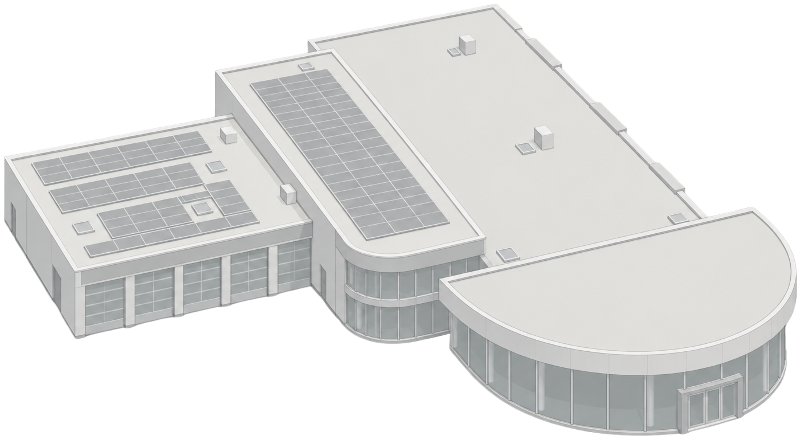
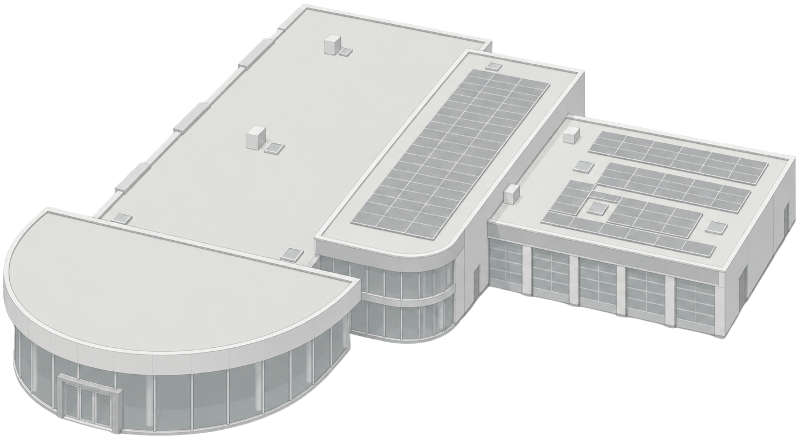
Pandtekening recht op de plattegrond (gespiegeld + 90 graden gedraaid), overlay-rotatie in MapView

diff --git a/src/components/MapView.tsx b/src/components/MapView.tsx
@@ -50,6 +50,8 @@ export interface MapImageOverlay {
   anchor: LatLng;
   /** Breedte in meters; de hoogte volgt uit de beeldverhouding. */
   widthM: number;
+  /** Draaiing met de klok mee (graden) rond het anker; 0 = onderrand naar het zuiden. */
+  rotationDeg?: number;
   minzoom?: number;
 }
 
@@ -387,6 +389,7 @@ export default function MapView(props: MapViewProps) {
       setReady(true);
       latest.current.onMapReady?.(map);
     });
+    if (import.meta.env.DEV) (window as unknown as { __navimotoMap?: MapLibreMap }).__navimotoMap = map; // debughulp in dev
 
     const onInteraction = (e: { originalEvent?: unknown }): void => {
       if (e.originalEvent) latest.current.onUserInteraction?.();
@@ -534,11 +537,19 @@ export default function MapView(props: MapViewProps) {
         const heightM = o.widthM * ratio;
         const latPerM = 1 / 111_320;
         const lonPerM = 1 / (111_320 * Math.cos((o.anchor.lat * Math.PI) / 180));
-        const west = o.anchor.lon - (o.widthM / 2) * lonPerM;
-        const east = o.anchor.lon + (o.widthM / 2) * lonPerM;
-        const south = o.anchor.lat;
-        const north = o.anchor.lat + heightM * latPerM;
-        map.addSource(id, { type: 'image', url: o.url, coordinates: [[west, north], [east, north], [east, south], [west, south]] });
+        // Hoeken in meters t.o.v. het anker (zuid-midden), gedraaid met de klok mee rond het anker.
+        const rot = ((o.rotationDeg ?? 0) * Math.PI) / 180;
+        const corner = (xM: number, yM: number): [number, number] => {
+          const rx = xM * Math.cos(rot) + yM * Math.sin(rot);
+          const ry = -xM * Math.sin(rot) + yM * Math.cos(rot);
+          return [o.anchor.lon + rx * lonPerM, o.anchor.lat + ry * latPerM];
+        };
+        const half = o.widthM / 2;
+        map.addSource(id, {
+          type: 'image',
+          url: o.url,
+          coordinates: [corner(-half, heightM), corner(half, heightM), corner(half, 0), corner(-half, 0)],
+        });
         const firstRoute = map.getStyle().layers.find((l) => l.id.startsWith('route-'))?.id;
         map.addLayer(
           { id, type: 'raster', source: id, minzoom: o.minzoom ?? 0, paint: { 'raster-fade-duration': 0, 'raster-resampling': 'linear' } },

diff --git a/src/lib/shop.ts b/src/lib/shop.ts
@@ -25,11 +25,14 @@ export const SHOP_FOOTPRINT = {
 /** Overlay-definitie voor MapView: de tekening van het pand, meeschalend met de kaart. */
 export const SHOP_OVERLAY = {
   id: 'shop-vos-oss-pand',
-  url: SHOP.imageUrl,
-  /** Zuid-midden van de tekening (onderrand van het pand). */
-  anchor: { lat: 51.77400, lon: (SHOP_FOOTPRINT.west + SHOP_FOOTPRINT.east) / 2 } as LatLng,
-  /** Breedte van de tekening in meters (iets breder dan de plattegrond vanwege het 3D-perspectief). */
-  widthM: 92,
+  /** Gespiegelde tekening (ronde deel links) zodat hij na 90 graden draaien op de plattegrond past. */
+  url: `${SHOP.imageUrl}?v=3`,
+  /** Anker = midden van de oostgevel; de onderrand van de tekening komt na het draaien op de oostkant te liggen. */
+  anchor: { lat: 51.77437, lon: 5.55196 } as LatLng,
+  /** Breedte van de tekening in meters (= noord-zuidlengte van het pand na het draaien). */
+  widthM: 78,
+  /** 90 graden tegen de klok in: hal noord-zuid, ronde glaspartij aan de zuidkant, aanbouw noordwest. */
+  rotationDeg: -90,
   minzoom: 14,
 };
 
